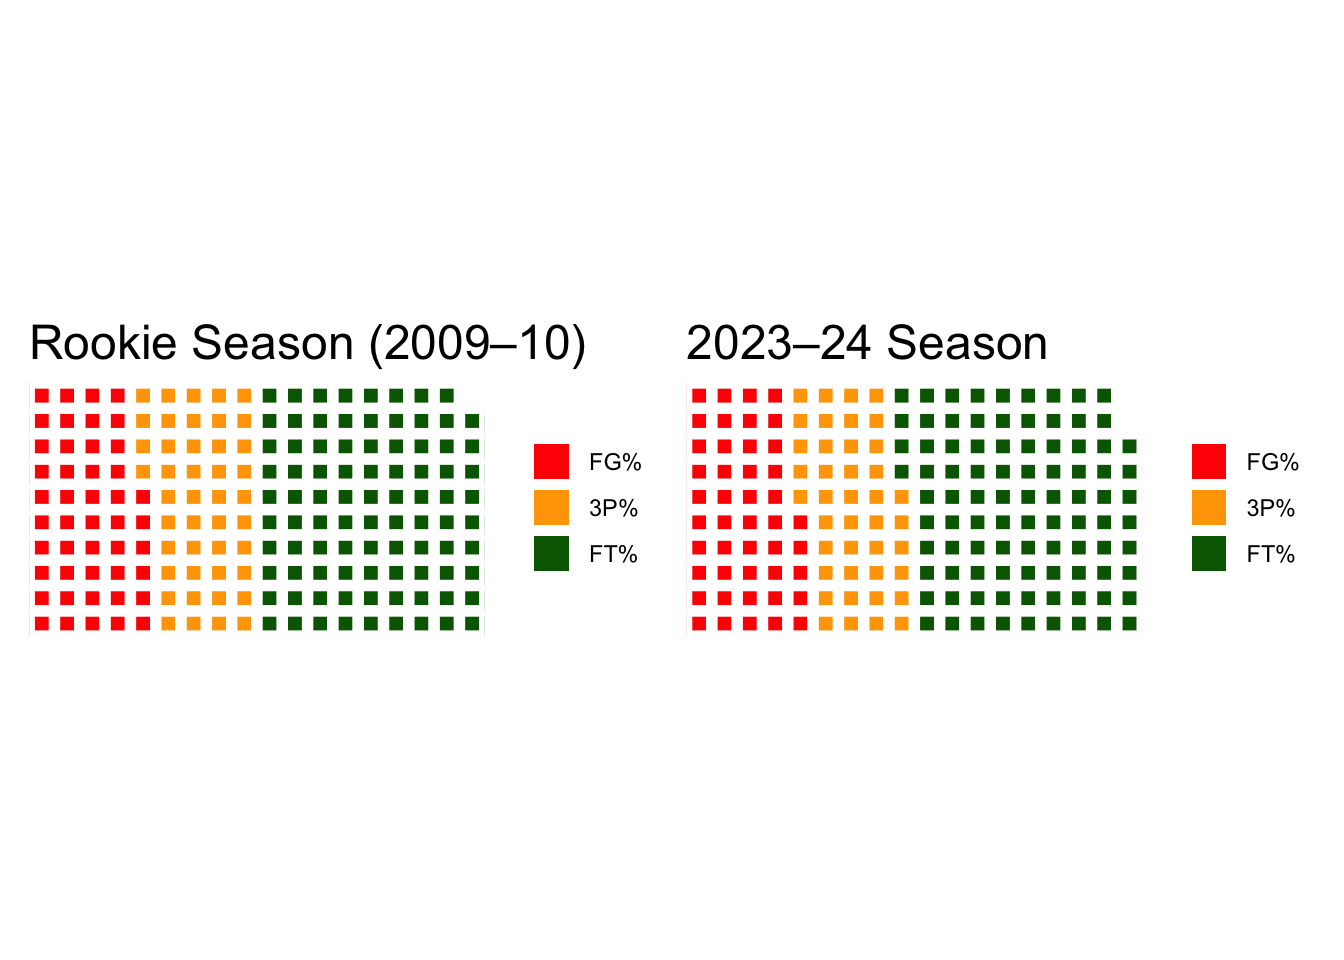
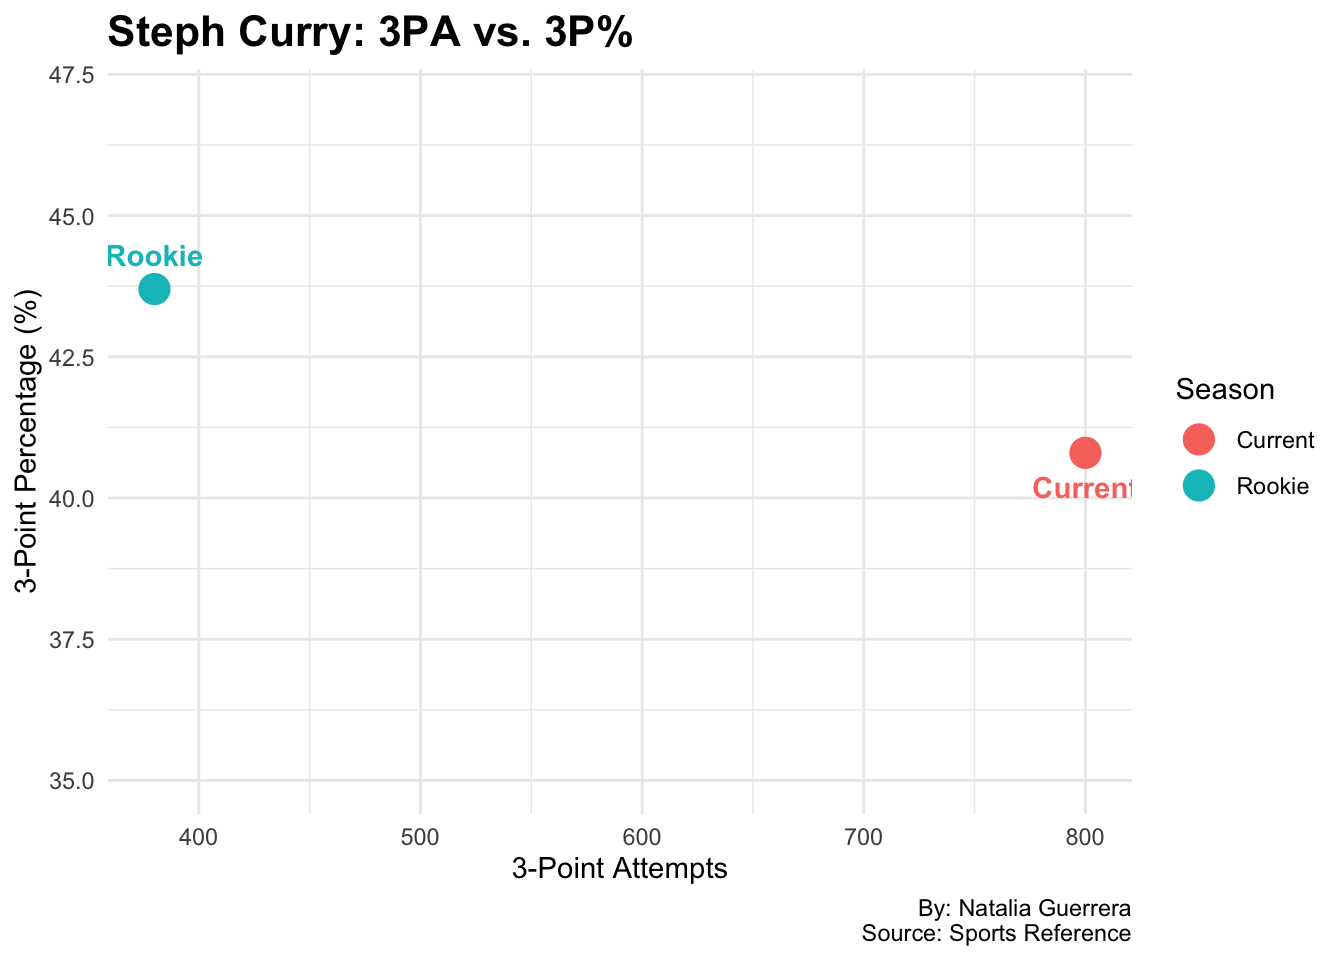
change

diff --git a/posts/nfl-nba-combine-athlete/index.html b/posts/nfl-nba-combine-athlete/index.html
@@ -263,7 +263,7 @@ pre > code.sourceCode > span > a:first-child::before { text-decoration: underlin
 <div class="cell-output-display">
 <div>
 <figure class="figure">
-<p><img src="index_files/figure-html/unnamed-chunk-2-1.png" class="img-fluid figure-img" width="672"></p>
+<p><img src="index_files/figure-html/unnamed-chunk-3-1.png" class="img-fluid figure-img" width="672"></p>
 </figure>
 </div>
 </div>
@@ -273,7 +273,7 @@ pre > code.sourceCode > span > a:first-child::before { text-decoration: underlin
 <details class="code-fold">
 <summary>Code</summary>
 <div class="sourceCode cell-code" id="cb3"><pre class="sourceCode r code-with-copy"><code class="sourceCode r"><span id="cb3-1"><a href="#cb3-1" aria-hidden="true" tabindex="-1"></a>curry_scatter <span class="ot">&lt;-</span> <span class="fu">tibble</span>(</span>
-<span id="cb3-2"><a href="#cb3-2" aria-hidden="true" tabindex="-1"></a>  <span class="at">Season =</span> <span class="fu">c</span>(<span class="st">"Rookie"</span>, <span class="st">"2023–24"</span>),</span>
+<span id="cb3-2"><a href="#cb3-2" aria-hidden="true" tabindex="-1"></a>  <span class="at">Season =</span> <span class="fu">c</span>(<span class="st">"Rookie"</span>, <span class="st">"Current"</span>),</span>
 <span id="cb3-3"><a href="#cb3-3" aria-hidden="true" tabindex="-1"></a>  <span class="at">Attempts =</span> <span class="fu">c</span>(<span class="dv">380</span>, <span class="dv">800</span>),</span>
 <span id="cb3-4"><a href="#cb3-4" aria-hidden="true" tabindex="-1"></a>  <span class="at">Percent =</span> <span class="fu">c</span>(<span class="fl">43.7</span>, <span class="fl">40.8</span>)</span>
 <span id="cb3-5"><a href="#cb3-5" aria-hidden="true" tabindex="-1"></a>)</span>
@@ -287,16 +287,17 @@ pre > code.sourceCode > span > a:first-child::before { text-decoration: underlin
 <span id="cb3-13"><a href="#cb3-13" aria-hidden="true" tabindex="-1"></a>    <span class="at">title =</span> <span class="st">"Steph Curry: 3PA vs. 3P%"</span>,</span>
 <span id="cb3-14"><a href="#cb3-14" aria-hidden="true" tabindex="-1"></a>    <span class="at">x =</span> <span class="st">"3-Point Attempts"</span>,</span>
 <span id="cb3-15"><a href="#cb3-15" aria-hidden="true" tabindex="-1"></a>    <span class="at">y =</span> <span class="st">"3-Point Percentage (%)"</span>,</span>
-<span id="cb3-16"><a href="#cb3-16" aria-hidden="true" tabindex="-1"></a>    <span class="at">color =</span> <span class="st">"Season"</span></span>
-<span id="cb3-17"><a href="#cb3-17" aria-hidden="true" tabindex="-1"></a>  ) <span class="sc">+</span></span>
-<span id="cb3-18"><a href="#cb3-18" aria-hidden="true" tabindex="-1"></a>  <span class="fu">scale_y_continuous</span>(<span class="at">limits =</span> <span class="fu">c</span>(<span class="dv">35</span>, <span class="dv">47</span>)) <span class="sc">+</span></span>
-<span id="cb3-19"><a href="#cb3-19" aria-hidden="true" tabindex="-1"></a>  <span class="fu">theme_minimal</span>() <span class="sc">+</span></span>
-<span id="cb3-20"><a href="#cb3-20" aria-hidden="true" tabindex="-1"></a>  <span class="fu">theme</span>(<span class="at">plot.title =</span> <span class="fu">element_text</span>(<span class="at">size =</span> <span class="dv">16</span>, <span class="at">face =</span> <span class="st">"bold"</span>))</span></code><button title="Copy to Clipboard" class="code-copy-button"><i class="bi"></i></button></pre></div>
+<span id="cb3-16"><a href="#cb3-16" aria-hidden="true" tabindex="-1"></a>    <span class="at">color =</span> <span class="st">"Season"</span>,</span>
+<span id="cb3-17"><a href="#cb3-17" aria-hidden="true" tabindex="-1"></a>    <span class="at">caption =</span> <span class="st">"By: Natalia Guerrera</span><span class="sc">\n</span><span class="st">Source: Sports Reference"</span></span>
+<span id="cb3-18"><a href="#cb3-18" aria-hidden="true" tabindex="-1"></a>  ) <span class="sc">+</span></span>
+<span id="cb3-19"><a href="#cb3-19" aria-hidden="true" tabindex="-1"></a>  <span class="fu">scale_y_continuous</span>(<span class="at">limits =</span> <span class="fu">c</span>(<span class="dv">35</span>, <span class="dv">47</span>)) <span class="sc">+</span></span>
+<span id="cb3-20"><a href="#cb3-20" aria-hidden="true" tabindex="-1"></a>  <span class="fu">theme_minimal</span>() <span class="sc">+</span></span>
+<span id="cb3-21"><a href="#cb3-21" aria-hidden="true" tabindex="-1"></a>  <span class="fu">theme</span>(<span class="at">plot.title =</span> <span class="fu">element_text</span>(<span class="at">size =</span> <span class="dv">16</span>, <span class="at">face =</span> <span class="st">"bold"</span>))</span></code><button title="Copy to Clipboard" class="code-copy-button"><i class="bi"></i></button></pre></div>
 </details>
 <div class="cell-output-display">
 <div>
 <figure class="figure">
-<p><img src="index_files/figure-html/unnamed-chunk-3-1.png" class="img-fluid figure-img" width="672"></p>
+<p><img src="index_files/figure-html/unnamed-chunk-4-1.png" class="img-fluid figure-img" width="672"></p>
 </figure>
 </div>
 </div>

diff --git a/index.html b/index.html
@@ -205,7 +205,7 @@ window.Quarto = {
 
 <div class="quarto-listing quarto-listing-container-default" id="listing-listing">
 <div class="list quarto-listing-default">
-<div class="quarto-post image-right" data-index="0" data-categories="nba,warriors,athlete" data-listing-date-sort="1744520400000" data-listing-file-modified-sort="1744688575828" data-listing-date-modified-sort="NaN" data-listing-reading-time-sort="5" data-listing-word-count-sort="880">
+<div class="quarto-post image-right" data-index="0" data-categories="nba,warriors,athlete" data-listing-date-sort="1744520400000" data-listing-file-modified-sort="1744689096826" data-listing-date-modified-sort="NaN" data-listing-reading-time-sort="5" data-listing-word-count-sort="893">
 <div class="thumbnail">
 <p><a href="./posts/nfl-nba-combine-athlete/index.html" class="no-external"></a></p><a href="./posts/nfl-nba-combine-athlete/index.html" class="no-external">
 <p><img loading="lazy" src="./posts/nfl-nba-combine-athlete/image.png" class="thumbnail-image"></p>
